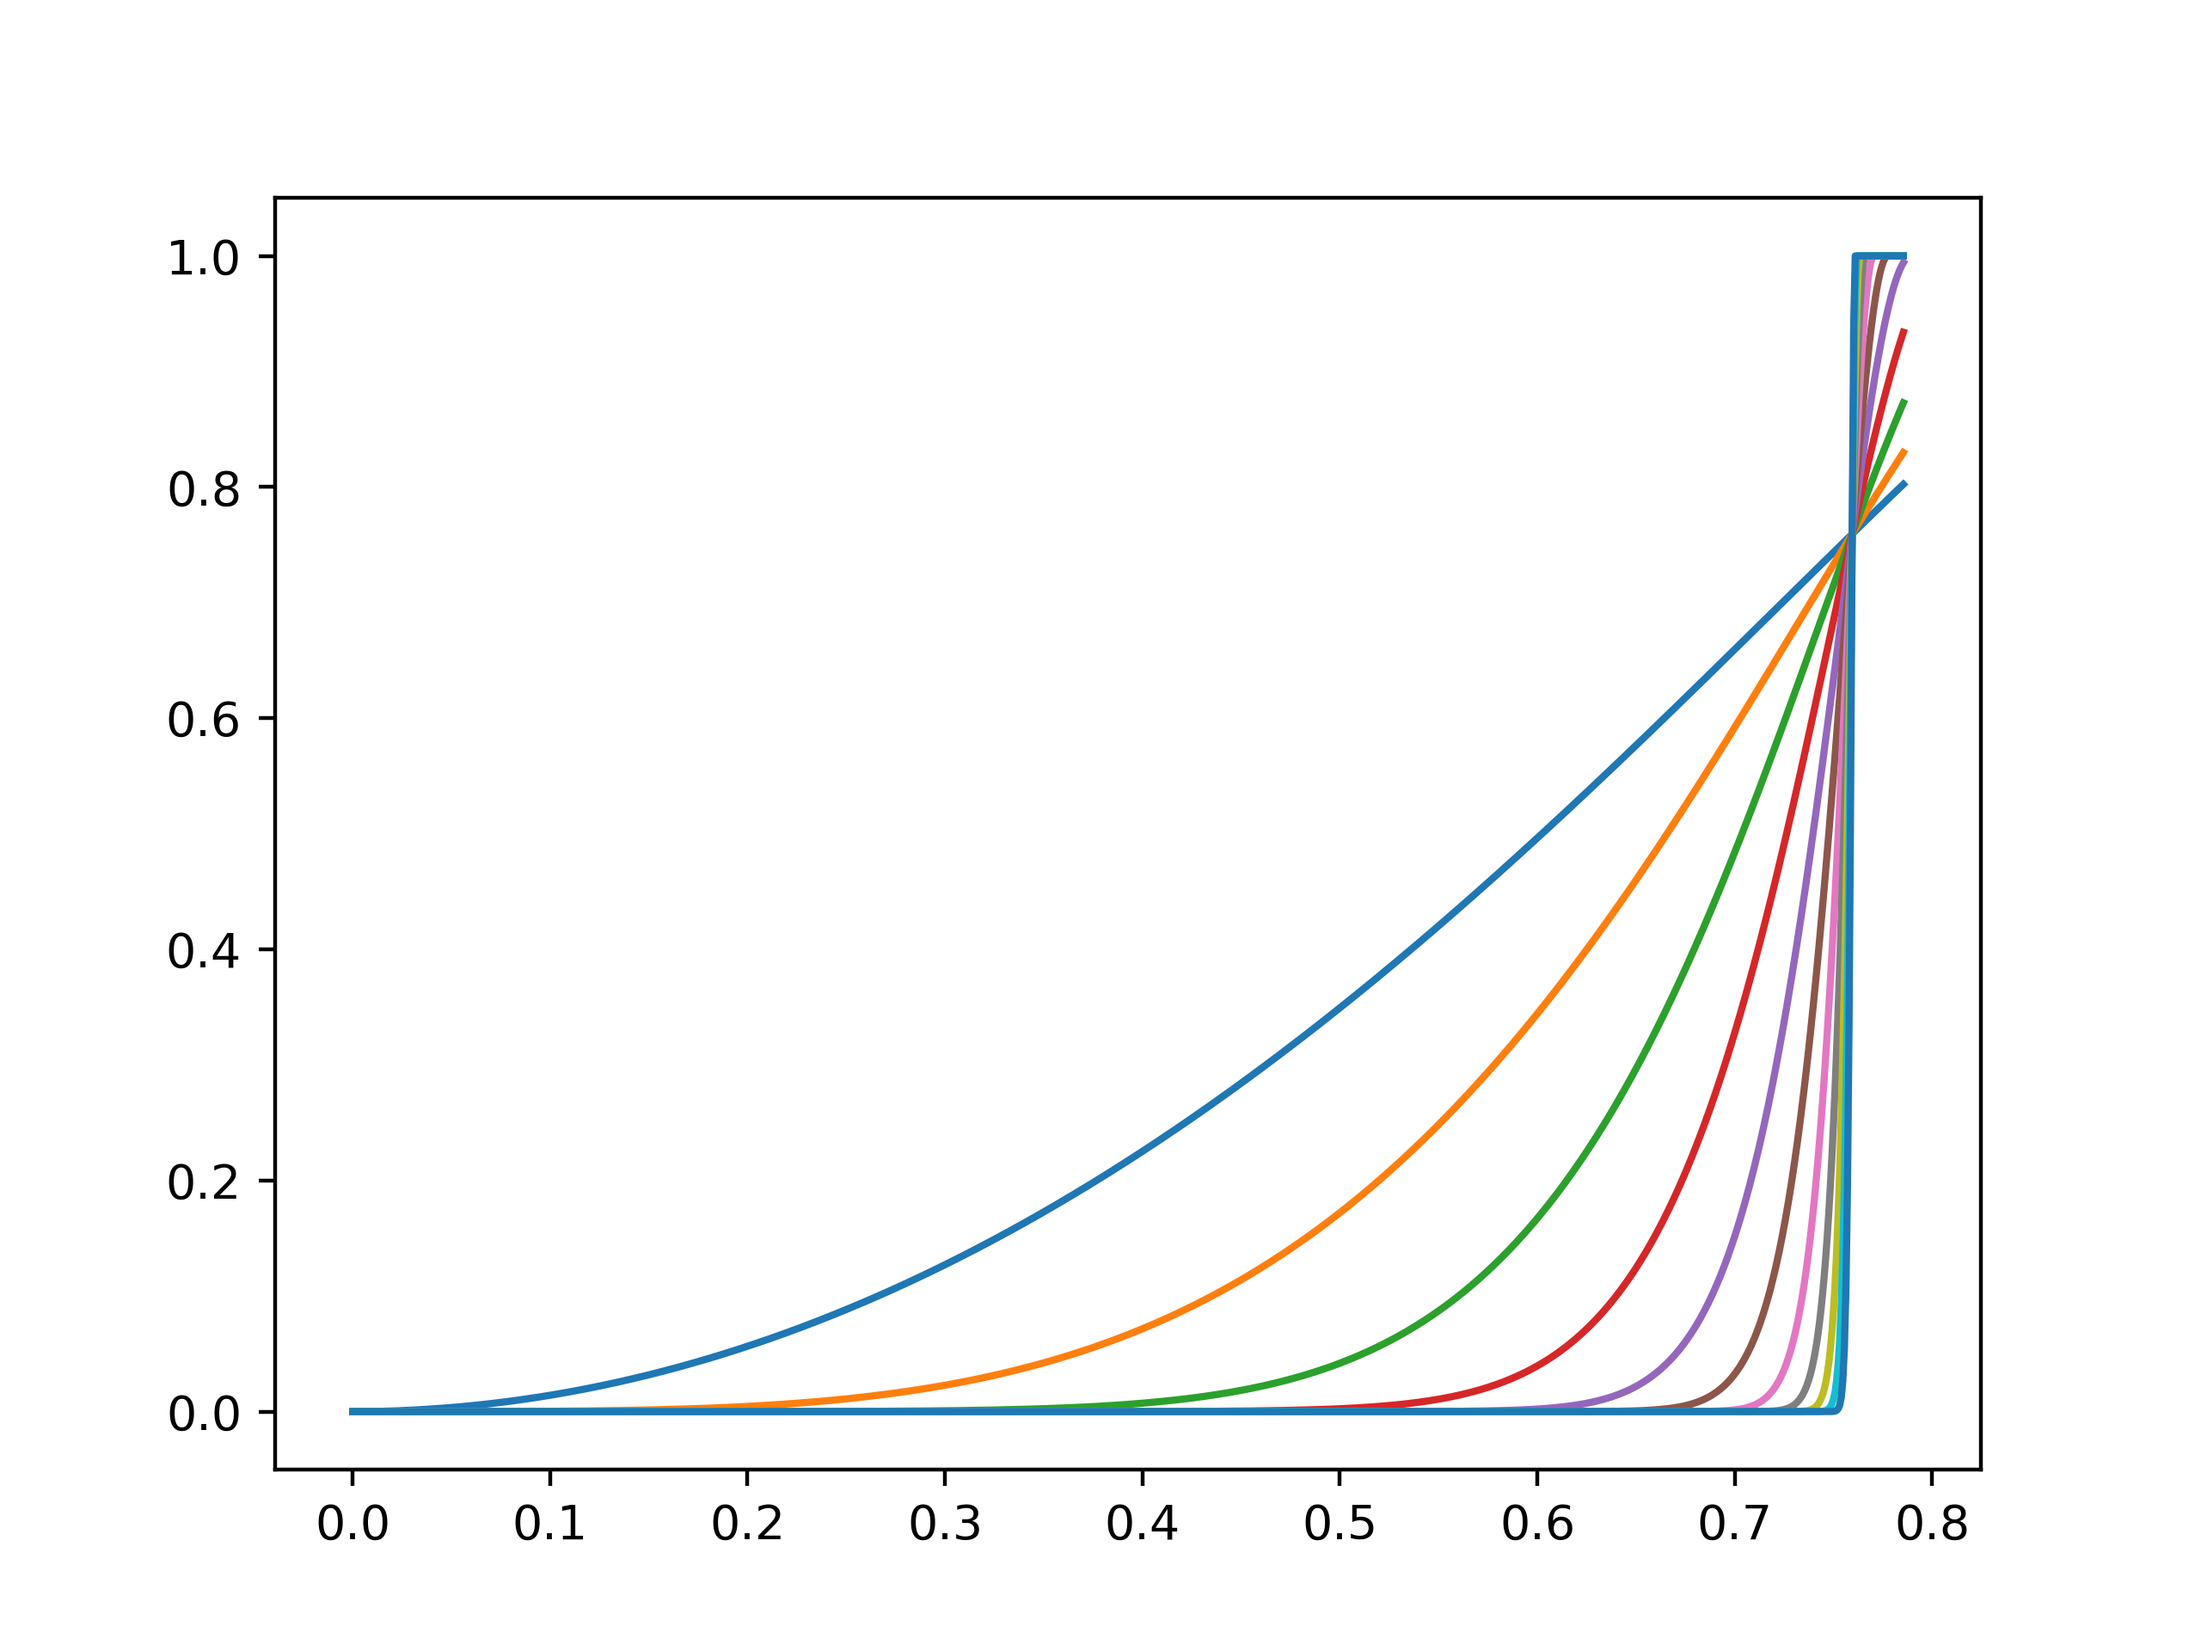
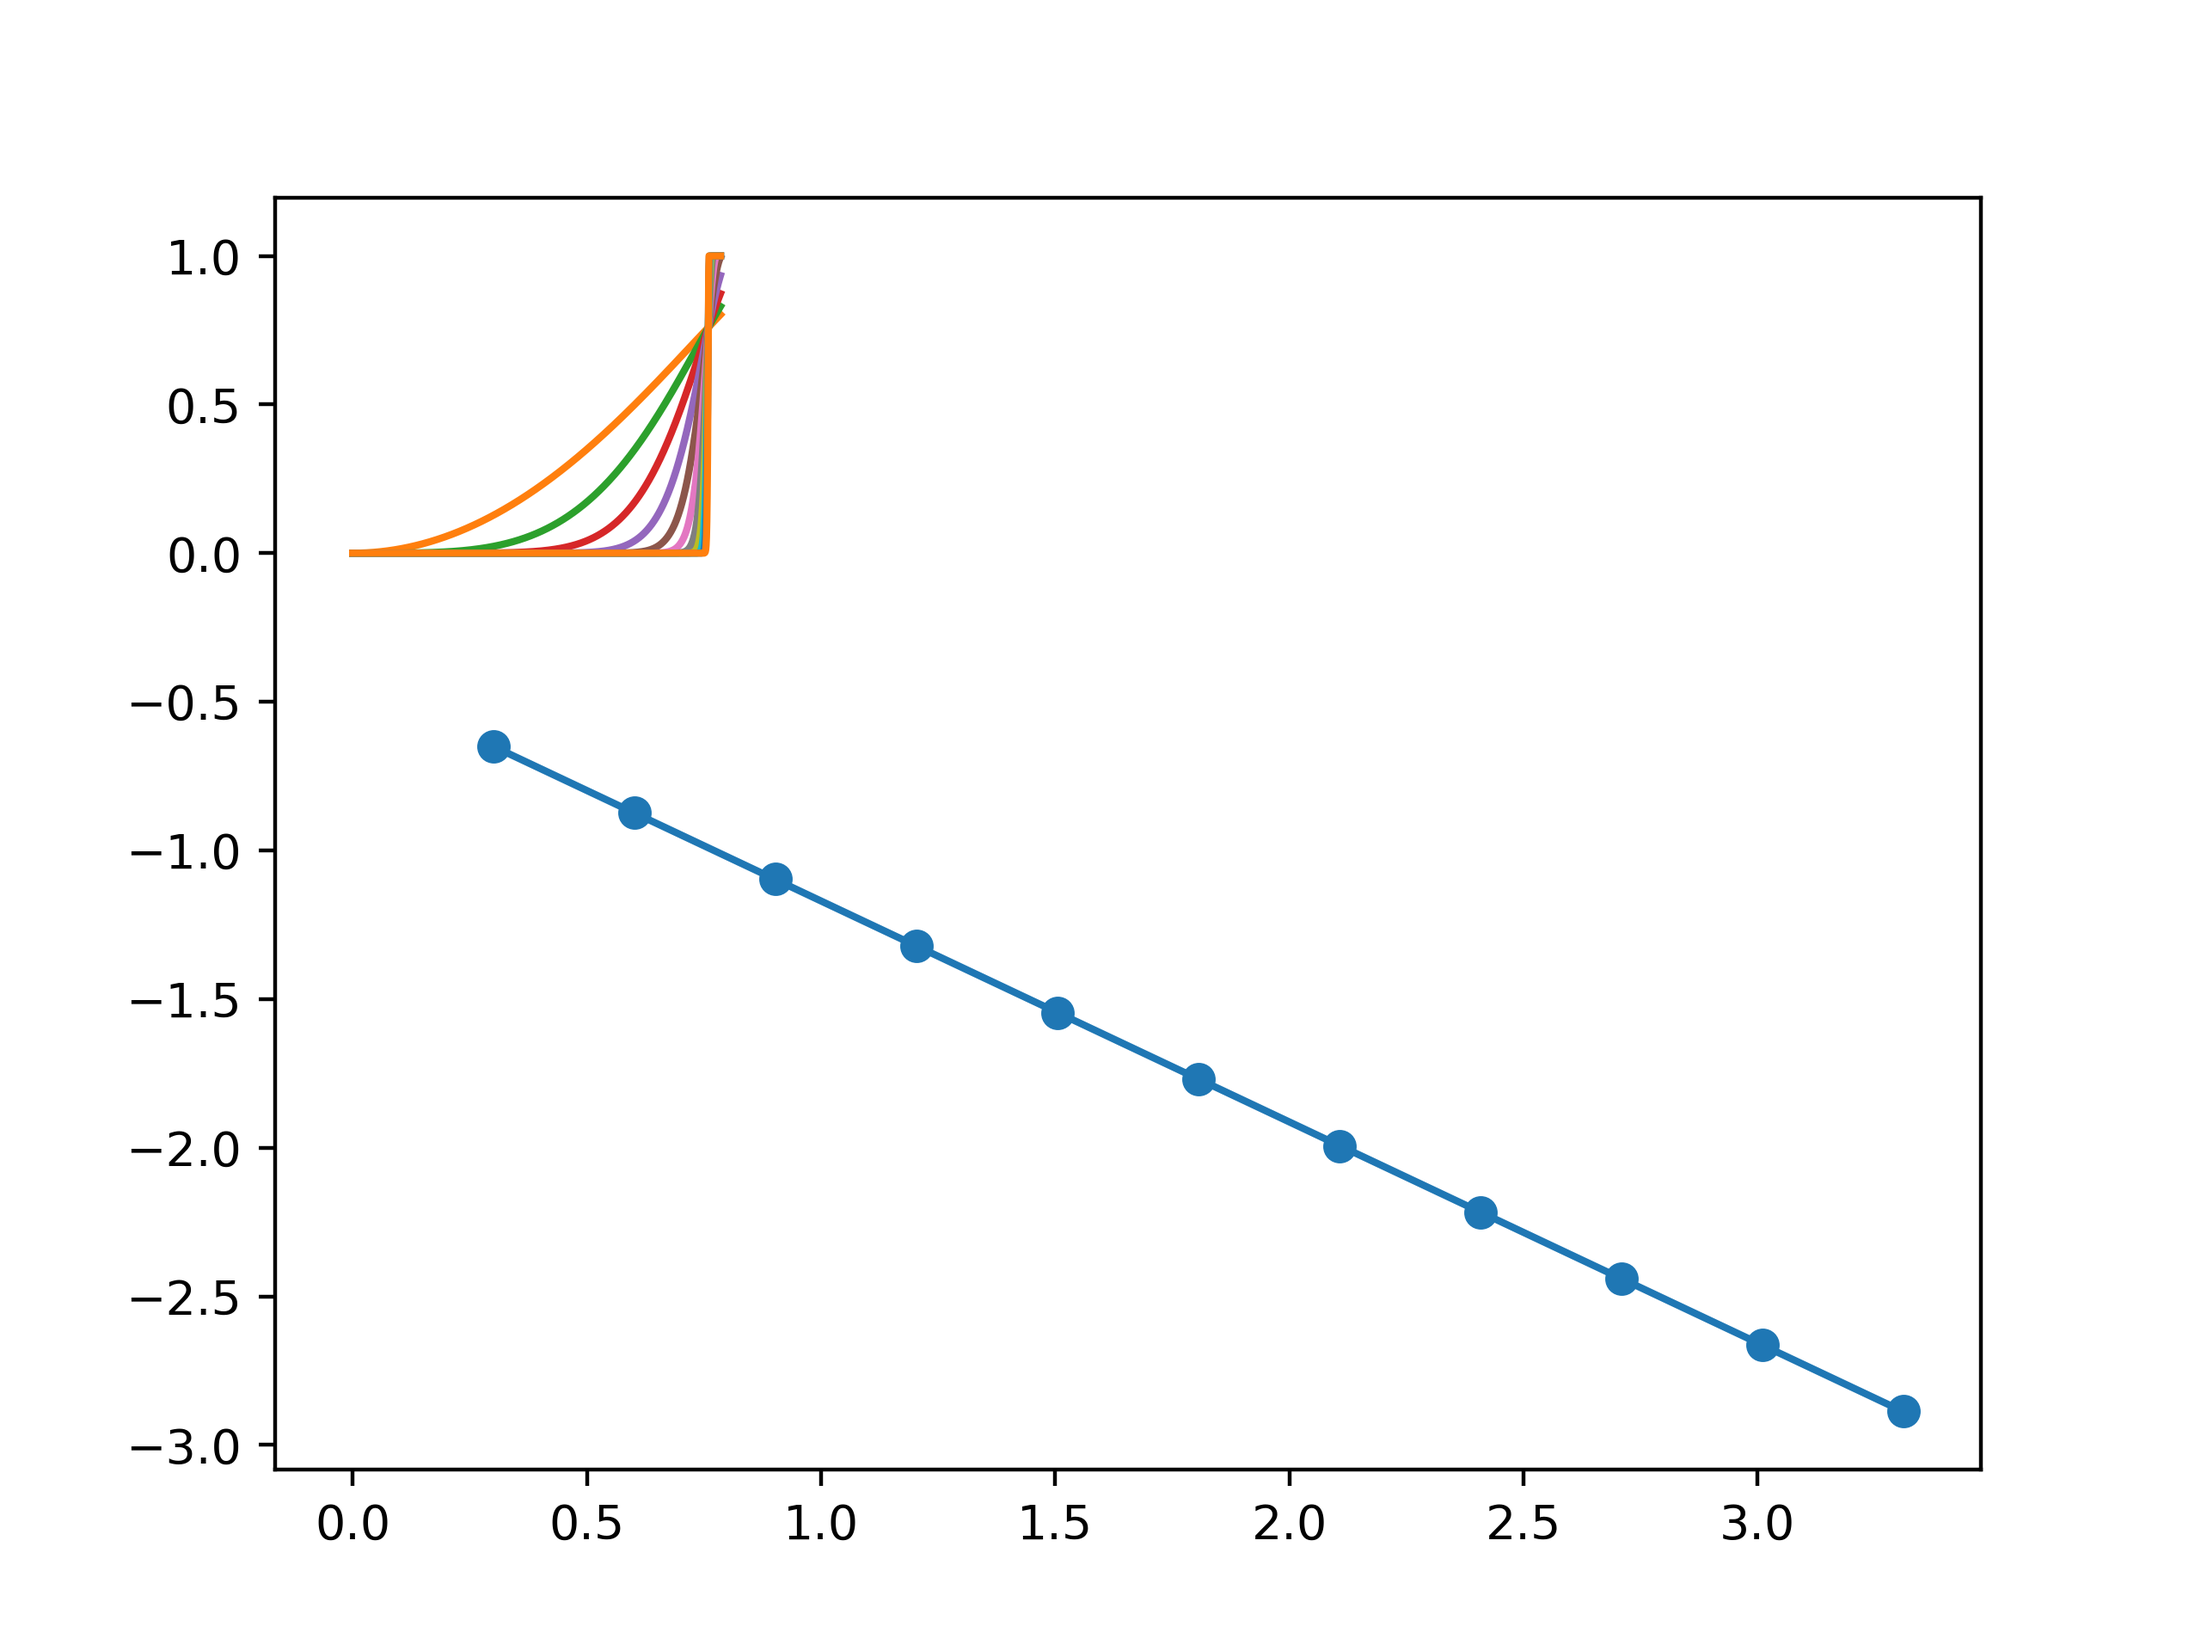
- more cleanups

diff --git a/renorm_sc_exp.py b/renorm_sc_exp.py
@@ -8,7 +8,9 @@ from perc_models import P_SC, C_SC
 H_OUT = []
 H_OUT2 = []
 P_STR = 0.5 * (np.sqrt(5) - 1)
-DP = True   ## display
+DP = False   ## Sponge Crossing Graph
+
+
 
 M0 = 1      ## starting generation index
 M1 = 13     ## max generation index
@@ -32,8 +34,8 @@ def parameter_scaling(prm_th, x_sc, x_str, display,t=''):
     prm_n = []
     tht_q = []
 
-    plt.close()
-
+    if display:
+        plt.close()
     for _n in range(M0,M2):
         ## determine threshold probability for given generation
         x_th_l = op.brentq(lambda x: x_sc(x, _n) - prm_th, 1e-8, 1 - 1e-8)
@@ -47,8 +49,9 @@ def parameter_scaling(prm_th, x_sc, x_str, display,t=''):
         if display:
             plt.plot(theta, x_sc(theta, _n))
 
-    plt.savefig(f'{t}_inf_atn.png',dpi=400)
-    plt.close()
+    if display:
+        plt.savefig(f'{t}_inf_atn.png',dpi=400)
+        plt.close()
 
     ## log of difference as prm_n approaches threshold
     diff_tm = np.asarray(x_th_l) if x_str is None else np.asarray(x_str)

diff --git a/sm_trans.py b/sm_trans.py
@@ -1,0 +1,24 @@
+import numpy as np
+import networkx as nx
+import matplotlib.pyplot as plt
+from scipy.optimize import fsolve
+
+
+def seri(t1,t2):
+    return t1*t2
+
+def para(t1,t2):
+    return 1 - (1-t1)*(1-t2)
+
+
+G = nx.Graph()
+
+#G.add_nodes_from([0,1,2,3])
+#G.add_edges_from([(0,1),(0,2),(0,3),(1,2),(1,3),(2,3)])
+
+G.add_nodes_from([0,1,2,3,4])
+G.add_edges_from([(0,1),(0,2),(0,3),(0,4)])
+
+nx.draw_kamada_kawai(G, with_labels=True)
+plt.show()
+

diff --git a/UVnetwork.py b/UVnetwork.py
@@ -12,7 +12,7 @@ def recover_branch_layers(G):
     n = len(adj_mat)
 
     for i in range(n):
-        for j in range(i + 1, n):  # only the entries above the diagonal
+        for j in range(i + 1, n):  ## only the entries above the diagonal
             if adj_mat[i][j] == 1:
                 arr.append([i + 1, j + 1])
 
